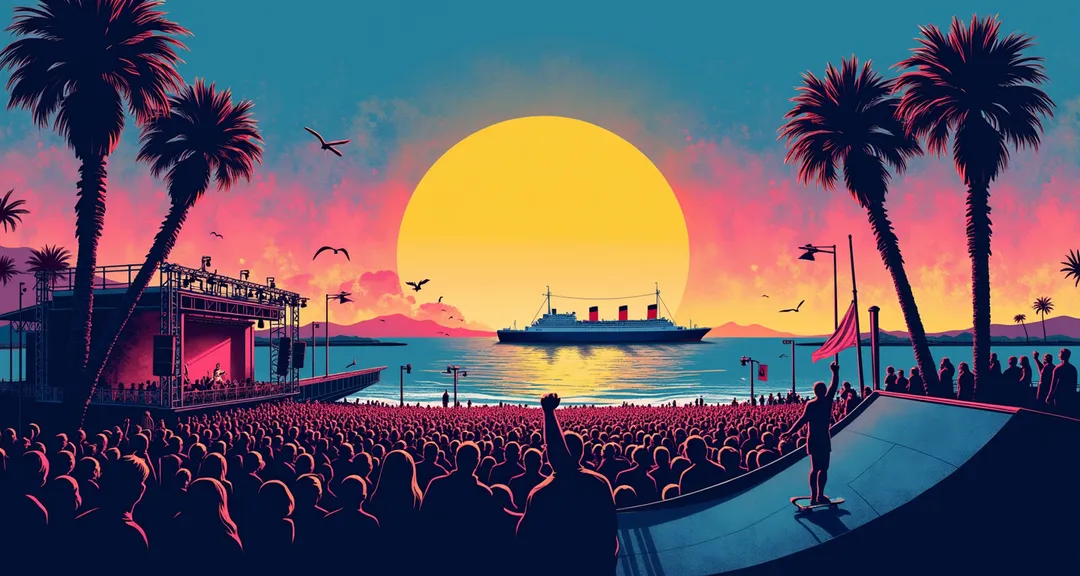
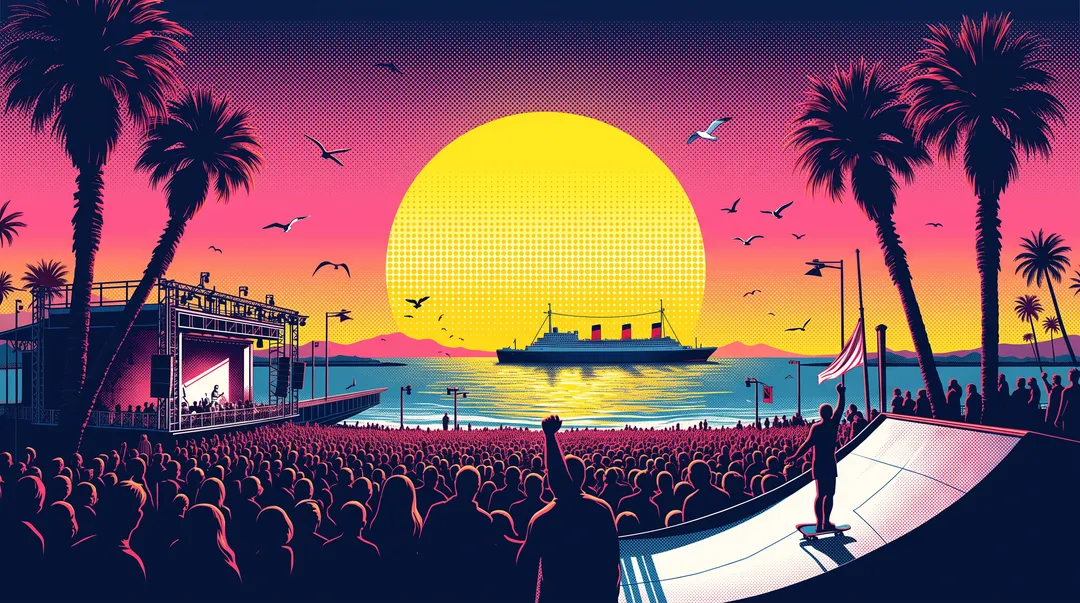
Art pass: Nano Banana 2 pipeline + new hero, empty-state gap fill
gen-art.mjs now supports per-asset model 'nb2' (fal-ai/nano-banana-2,
$0.08 @1K) with referenceFrom style-matching via the /edit endpoint and
per-run spend tracking. Generated this pass ($0.68 total):

- hero.webp: NB2 remake Robbie picked from three candidates — same
  composition, sharper at 2K (unused lettered-poster and pit-view
  candidates kept as raws in gitignored scripts/.art-raw/)
- empty-group.webp: regenerated frameless — the FLUX original's baked
  light postcard frame glowed like a theming bug on dark mode
- empty-timeline.webp, empty-shared.webp, no-conflicts.webp: new spot
  art for the three Group/Schedule empty states that only had icons
  (no-conflicts is celebratory — it's a positive state)

Wired via ART in src/config/event.ts; precached by the existing glob.

diff --git a/src/screens/GroupScreen.tsx b/src/screens/GroupScreen.tsx
@@ -130,7 +130,15 @@ function TimelineView({ day }: { day: DayId }) {
   const ctx = useGroupCtx();
   const artistById = useApp((s) => s.artistById);
   const slots = useMemo(() => groupTimeline(day, ctx), [day, ctx]);
-  if (!slots.length) return <EmptyState Icon={CalendarClock} title="Nothing planned yet" message="No one has a scheduled set this day." />;
+  if (!slots.length)
+    return (
+      <EmptyState
+        Icon={CalendarClock}
+        image={ART.emptyTimeline}
+        title="Nothing planned yet"
+        message="No one has a scheduled set this day."
+      />
+    );
   return (
     <div className="space-y-2">
       {slots.map((slot) => (
@@ -227,7 +235,14 @@ function SharedView({ day }: { day: DayId }) {
   const artistById = useApp((s) => s.artistById);
   const shared = useMemo(() => sharedSets(day, ctx), [day, ctx]);
   if (!shared.length)
-    return <EmptyState Icon={Star} title="No shared sets yet" message="When two or more of you pick the same set, it shows here." />;
+    return (
+      <EmptyState
+        Icon={Star}
+        image={ART.emptyShared}
+        title="No shared sets yet"
+        message="When two or more of you pick the same set, it shows here."
+      />
+    );
   return (
     <div className="space-y-2">
       {shared.map((slot) => (
@@ -284,7 +299,14 @@ function ConflictsView({ day }: { day: DayId }) {
   ];
   const anyConflicts = robbie.length + ari.length + morgan.length > 0;
   if (!anyConflicts)
-    return <EmptyState Icon={AlertTriangle} title="No conflicts" message="No one has a clash on their plan this day." />;
+    return (
+      <EmptyState
+        Icon={AlertTriangle}
+        image={ART.noConflicts}
+        title="No conflicts"
+        message="No one has a clash on their plan this day."
+      />
+    );
   return (
     <div className="space-y-3">
       {byUser.map(([uid, list]) => {

diff --git a/src/config/event.ts b/src/config/event.ts
@@ -40,4 +40,7 @@ export const ART = {
   emptySchedule: `${BASE_URL}art/empty-schedule.webp`,
   emptyMap: `${BASE_URL}art/empty-map.webp`,
   emptyBands: `${BASE_URL}art/empty-bands.webp`,
+  emptyTimeline: `${BASE_URL}art/empty-timeline.webp`,
+  emptyShared: `${BASE_URL}art/empty-shared.webp`,
+  noConflicts: `${BASE_URL}art/no-conflicts.webp`,
 } as const;

diff --git a/src/screens/ScheduleScreen.tsx b/src/screens/ScheduleScreen.tsx
@@ -105,6 +105,7 @@ function ConflictsView({ day, setDay }: { day: DayId; setDay: (d: DayId) => void
       {conflicts.length === 0 ? (
         <EmptyState
           Icon={CalendarDays}
+          image={ART.noConflicts}
           title="No conflicts"
           message="Nothing clashes on your plan for this day. Nice."
         />
